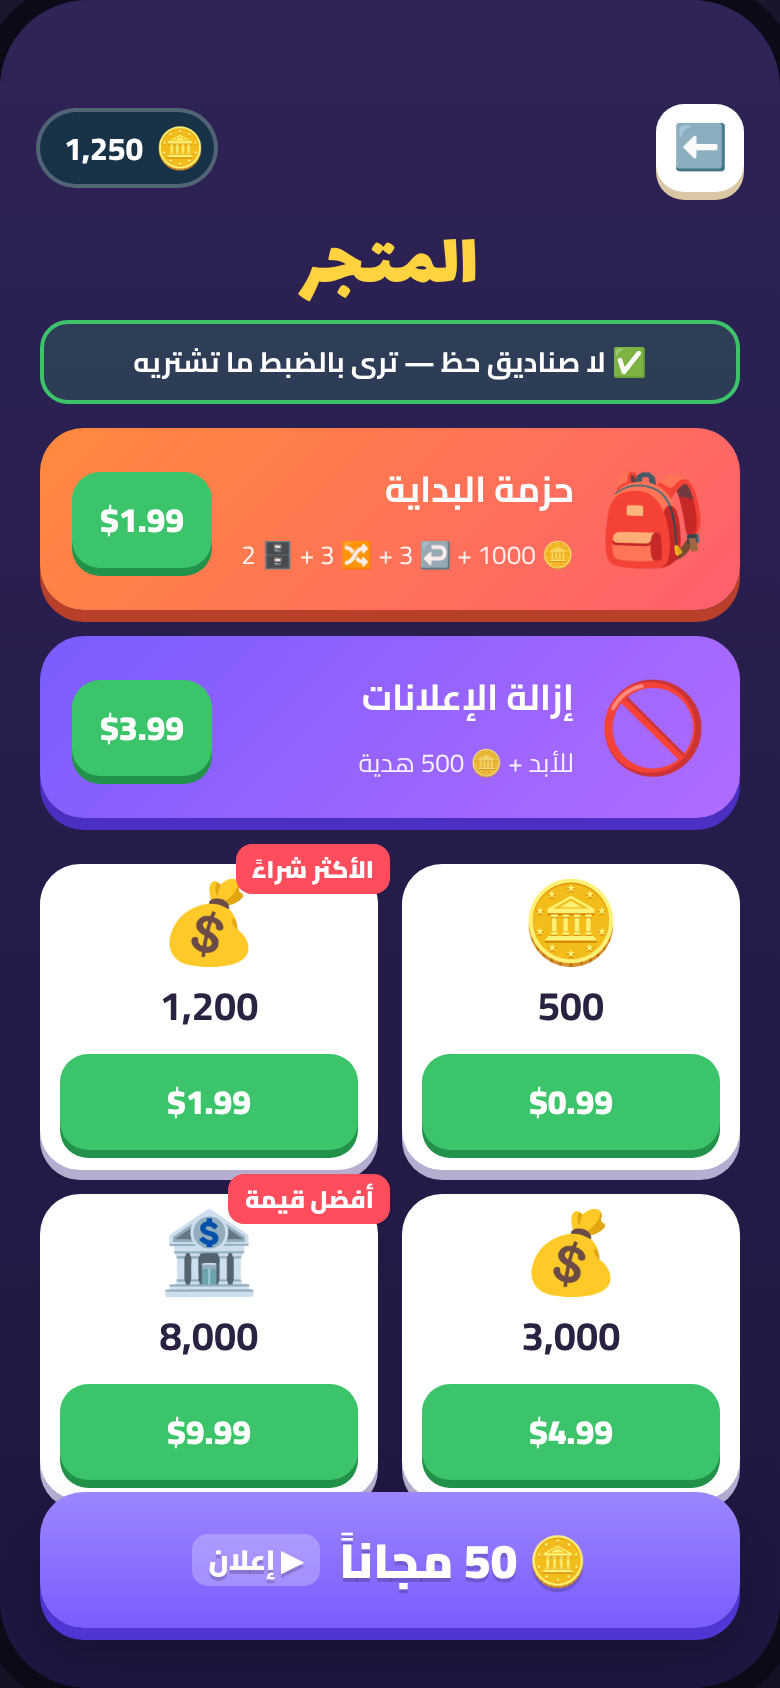
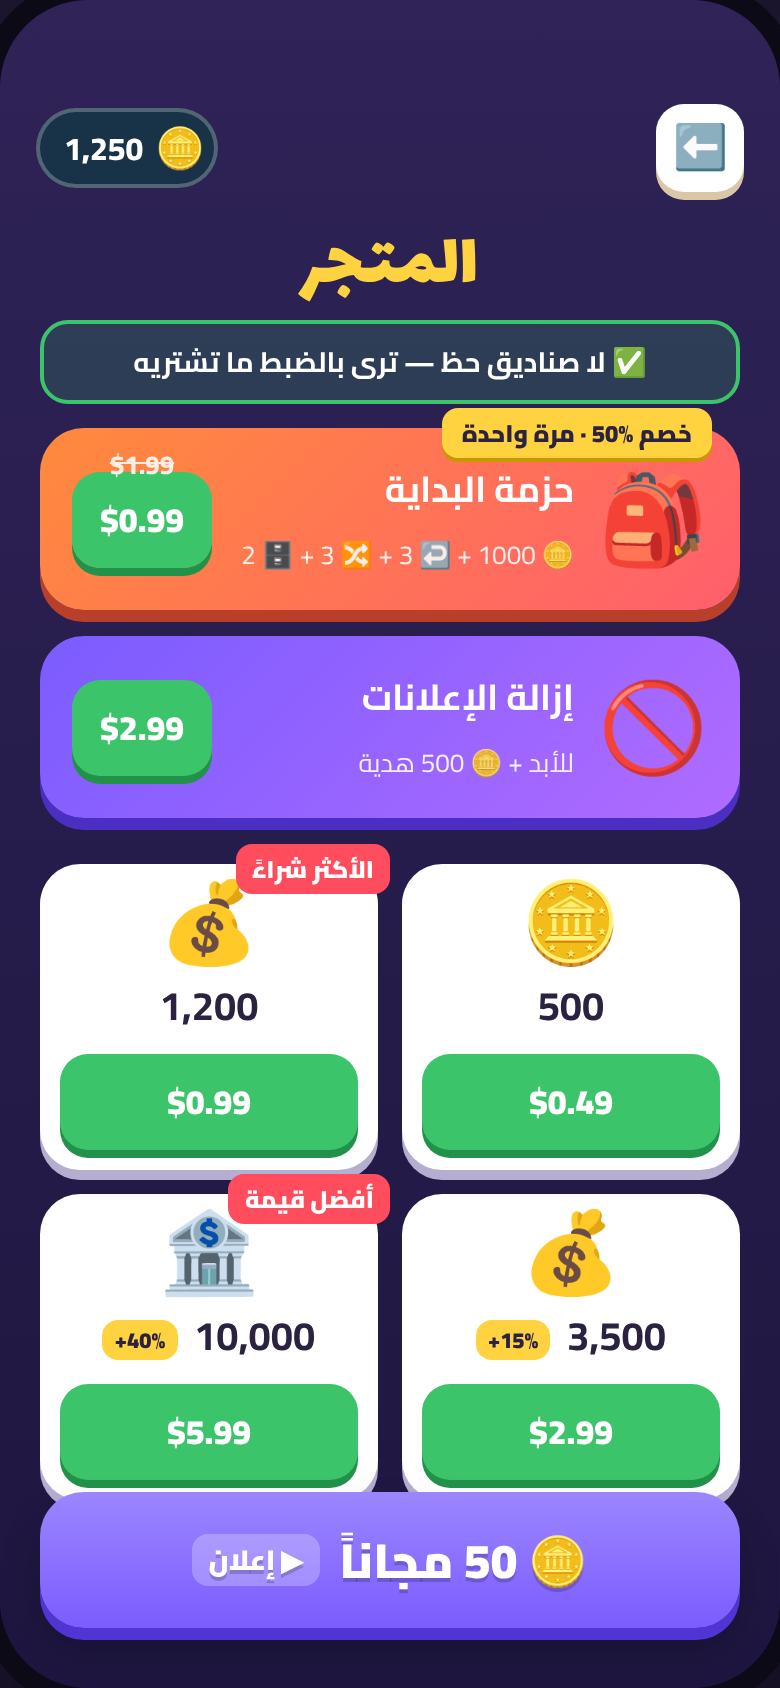
Mockups: cheaper, more competitive shop pricing
Claude-Session: https://claude.ai/code/session_0198GSpUHpAsMi38EfXjb44N

diff --git a/design/mockups/shelf-sort-mockups.html b/design/mockups/shelf-sort-mockups.html
@@ -243,6 +243,11 @@ body { font-family: "Cairo", sans-serif; background: #1d1630; color: var(--ink);
 .coin-pack .emoji { font-size: 40px; }
 .coin-pack b { display: block; font-size: 20px; }
 .coin-pack .price { display: block; margin-top: 6px; }
+.old { position: absolute; top: -24px; left: 0; right: 0; font-size: 13px; font-weight: 800; text-decoration: line-through; opacity: .85; text-align: center; direction: ltr; }
+.price-col { position: relative; }
+.offer .tag { position: absolute; top: -10px; right: 14px; background: var(--yellow); color: var(--ink); font-size: 12px; font-weight: 900; padding: 1px 10px; border-radius: 8px; box-shadow: 0 2px 0 #c99700; }
+.ltr { direction: ltr; unicode-bidi: isolate; display: inline-block; }
+.bonus { direction: ltr; unicode-bidi: isolate; display: inline-block; background: var(--yellow); color: var(--ink); font-size: 11px; font-weight: 900; border-radius: 8px; padding: 0 6px; margin-right: 4px; vertical-align: middle; }
 .coin-pack .tag { position: absolute; top: -10px; right: -6px; background: var(--red); color: #fff; font-size: 12px; font-weight: 900; padding: 1px 8px; border-radius: 8px; }
 .free { position: absolute; bottom: 30px; left: 20px; right: 20px; }
 </style>
@@ -519,17 +524,18 @@ body { font-family: "Cairo", sans-serif; background: #1d1630; color: var(--ink);
   <div class="trust">✅ لا صناديق حظ — ترى بالضبط ما تشتريه</div>
 
   <div class="offer o1"><i class="emoji">🎒</i>
+    <span class="tag">خصم <span class="ltr">50%</span> · مرة واحدة</span>
     <div class="txt"><b>حزمة البداية</b><span>🪙 1000 + ↩ 3 + 🔀 3 + 🗄 2</span></div>
-    <span class="price">$1.99</span></div>
+    <span class="price-col"><span class="old">$1.99</span><span class="price">$0.99</span></span></div>
   <div class="offer o2"><i class="emoji">🚫</i>
     <div class="txt"><b>إزالة الإعلانات</b><span>للأبد + 🪙 500 هدية</span></div>
-    <span class="price">$3.99</span></div>
+    <span class="price">$2.99</span></div>
 
   <div class="coins">
-    <div class="coin-pack"><i class="emoji">🪙</i><b>500</b><span class="price">$0.99</span></div>
-    <div class="coin-pack"><span class="tag">الأكثر شراءً</span><i class="emoji">💰</i><b>1,200</b><span class="price">$1.99</span></div>
-    <div class="coin-pack"><i class="emoji">💰</i><b>3,000</b><span class="price">$4.99</span></div>
-    <div class="coin-pack"><span class="tag">أفضل قيمة</span><i class="emoji">🏦</i><b>8,000</b><span class="price">$9.99</span></div>
+    <div class="coin-pack"><i class="emoji">🪙</i><b>500</b><span class="price">$0.49</span></div>
+    <div class="coin-pack"><span class="tag">الأكثر شراءً</span><i class="emoji">💰</i><b>1,200</b><span class="price">$0.99</span></div>
+    <div class="coin-pack"><i class="emoji">💰</i><b>3,500 <span class="bonus">+15%</span></b><span class="price">$2.99</span></div>
+    <div class="coin-pack"><span class="tag">أفضل قيمة</span><i class="emoji">🏦</i><b>10,000 <span class="bonus">+40%</span></b><span class="price">$5.99</span></div>
   </div>
 
   <div class="free"><div class="btn btn-purple">🪙 50 مجاناً <span class="ad-tag">▶ إعلان</span></div></div>
